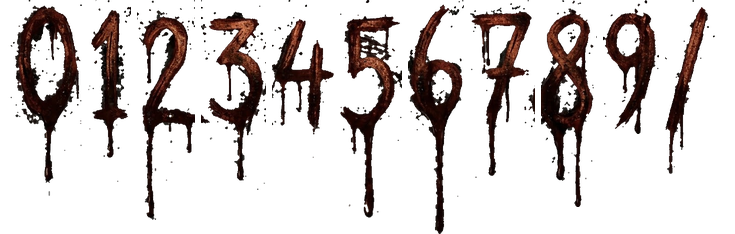
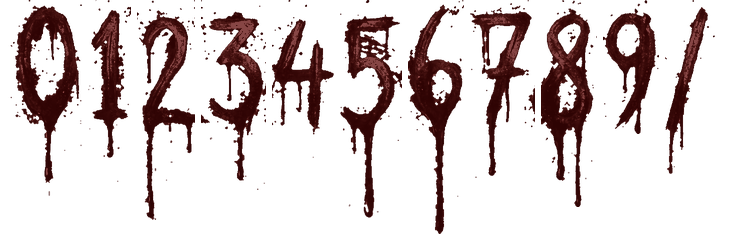
Cifre di sangue: stessa gamma di colore delle altre scritte, con schizzi e colate
Claude-Session: https://claude.ai/code/session_014dApnh5cQuMdZvTWDcVASP

diff --git a/sw.js b/sw.js
@@ -3,7 +3,7 @@
  * - Asset pesanti (modelli, texture, audio): cache separata; scaricati in background dopo l'installazione.
  * Le due versioni qui sotto le aggiorna tools/bump.sh a ogni modifica (hash del contenuto): non toccarle a mano. */
 const SHELL_VERSION = '3672b826d6';   // @shell
-const ASSET_VERSION = '86e9367005';   // @assets
+const ASSET_VERSION = 'be5af477a0';   // @assets
 const SHELL = 'ng-shell-' + SHELL_VERSION, ASSETS = 'ng-assets-' + ASSET_VERSION;
 const SHELL_FILES = ['./','./css/style.css','./icons/icon-180.png','./icons/icon-192.png','./icons/icon-32.png','./icons/icon-512.png','./icons/maskable-512.png','./index.html','./js/audio/audio.js','./js/events/ambient.js','./js/events/cellar.js','./js/events/combat.js','./js/events/dawn.js','./js/events/door.js','./js/events/glass.js','./js/events/hall.js','./js/events/hound.js','./js/events/morgue.js','./js/events/notes.js','./js/events/rats.js','./js/events/scare.js','./js/events/sorella.js','./js/events/tower.js','./js/events/tv.js','./js/events/ward.js','./js/events/warehouse.js','./js/main.js','./js/personal.js','./js/player/controls.js','./js/player/player.js','./js/pwa.js','./js/story.js','./js/ui/instability.js','./js/ui/rgbshift.js','./js/world/aged.js','./js/world/atmos.js','./js/world/blood.js','./js/world/bloodfont.js','./js/world/decor.js','./js/world/dust.js','./js/world/extra.js','./js/world/fingerwrite.js','./js/world/lights.js','./js/world/materials.js','./js/world/nun.js','./js/world/props.js','./js/world/redlight.js','./js/world/rooms.js','./js/world/tunnel.js','./manifest.webmanifest','./vendor/three/LICENSE','./vendor/three/Reflector.js','./vendor/three/loaders/GLTFLoader.js','./vendor/three/three.module.min.js','./vendor/three/utils/BufferGeometryUtils.js']; // @shellfiles
 const ASSET_FILES = ['./assets/audio/crowd_drone.mp3','./assets/audio/demon_growl.mp3','./assets/audio/fire_swoosh.mp3','./assets/audio/hound_breath.mp3','./assets/audio/step0.mp3','./assets/audio/step1.mp3','./assets/audio/step2.mp3','./assets/audio/step3.mp3','./assets/audio/step4.mp3','./assets/models/ammo.glb','./assets/models/axe.glb','./assets/models/bin.glb','./assets/models/c_nurse.glb','./assets/models/c_occ.glb','./assets/models/cabinet.glb','./assets/models/cam.glb','./assets/models/can.glb','./assets/models/cart.glb','./assets/models/chair.glb','./assets/models/door.glb','./assets/models/gate.glb','./assets/models/hlamp.glb','./assets/models/hound.glb','./assets/models/hs_bed.glb','./assets/models/hw_door_1.glb','./assets/models/hw_wheel_chair.glb','./assets/models/kit_cables.glb','./assets/models/kit_fence.glb','./assets/models/kit_gutter.glb','./assets/models/kit_ind.glb','./assets/models/kit_manhole.glb','./assets/models/kit_pipes.glb','./assets/models/lamp.glb','./assets/models/m_bell.glb','./assets/models/m_diver.glb','./assets/models/m_nurse.glb','./assets/models/m_occ.glb','./assets/models/m_pirate.glb','./assets/models/m_root.glb','./assets/models/m_varka.glb','./assets/models/m_whisperer.glb','./assets/models/mg_chair.glb','./assets/models/mg_tool1.glb','./assets/models/mg_tool3.glb','./assets/models/mg_tool4.glb','./assets/models/mg_wall.glb','./assets/models/pistol.glb','./assets/models/rack.glb','./assets/models/rim.glb','./assets/models/seclight.glb','./assets/models/shelf.glb','./assets/models/slamp1.glb','./assets/models/slamp2.glb','./assets/models/sorella.glb','./assets/models/stool.glb','./assets/models/stove.glb','./assets/models/tank.glb','./assets/models/whisperer.glb','./assets/models/wlamp.glb','./assets/models/x_basket.glb','./assets/models/x_bust.glb','./assets/models/x_clock.glb','./assets/models/x_gnome.glb','./assets/models/x_lion.glb','./assets/models/x_micro.glb','./assets/models/x_rat.glb','./assets/models/x_screen.glb','./assets/models/x_spray.glb','./assets/models/x_tv.glb','./assets/models/x_watch.glb','./assets/tex/bath_bg.jpg','./assets/tex/blood_digits.png','./assets/tex/blood_font.png','./assets/tex/blood_real.png','./assets/tex/brick_c.jpg','./assets/tex/brick_n.jpg','./assets/tex/brick_orm.jpg','./assets/tex/floorA_c.jpg','./assets/tex/floorA_n.jpg','./assets/tex/floorA_orm.jpg','./assets/tex/floorB_c.jpg','./assets/tex/floorB_n.jpg','./assets/tex/floorB_orm.jpg','./assets/tex/foot_l.png','./assets/tex/foot_r.png','./assets/tex/hall_bg.jpg','./assets/tex/handA.png','./assets/tex/handC.png','./assets/tex/mg_floor.jpg','./assets/tex/night_bg.jpg','./assets/tex/pic_alice.jpg','./assets/tex/pic_anatomy.webp','./assets/tex/pic_charcoal.webp','./assets/tex/pic_corridor.webp','./assets/tex/pic_drawing.jpg','./assets/tex/pic_drawing2.webp','./assets/tex/pic_elisa.jpg','./assets/tex/pic_family.webp','./assets/tex/pic_mural_angel.webp','./assets/tex/pic_mural_angels.webp','./assets/tex/pic_mural_cathedral.webp','./assets/tex/pic_mural_corridor.webp','./assets/tex/pic_mural_demon.webp','./assets/tex/pic_mural_door.webp','./assets/tex/pic_mural_eyes.webp','./assets/tex/pic_mural_faces.webp','./assets/tex/pic_mural_fire.webp','./assets/tex/pic_mural_inferno.webp','./assets/tex/pic_mural_ritual.webp','./assets/tex/pic_mural_skull.webp','./assets/tex/pic_mural_throne.webp','./assets/tex/pic_mural_wide.webp','./assets/tex/pic_rebecca.jpg','./assets/tex/pic_saint.webp','./assets/tex/pic_window.webp','./assets/tex/pic_yana.jpg','./assets/tex/pt_blocks.webp','./assets/tex/pt_gravel.webp','./assets/tex/pt_layers.webp','./assets/tex/pt_mold.webp','./assets/tex/pt_plaster.webp','./assets/tex/pt_rough.webp','./assets/tex/pt_stain.webp','./assets/tex/rust_c.jpg','./assets/tex/rust_n.jpg','./assets/tex/rust_orm.jpg','./assets/tex/rust_ov.jpg','./assets/tex/stone_c.jpg','./assets/tex/stone_n.jpg','./assets/tex/stone_orm.jpg','./assets/tex/ward_ceiling.jpg','./assets/tex/wr_elisa_1.png','./assets/tex/wr_elisa_2.png','./assets/tex/wr_elisa_3.png','./assets/tex/wr_elisa_4.png','./assets/tex/wr_elisa_h.png','./assets/tex/wr_elisa_m.png','./assets/tex/wr_elisa_o.png','./assets/tex/wr_sigil.png','./assets/tex/wr_std_c2.png','./assets/tex/wr_std_h.png','./assets/tex/wr_std_m.png','./assets/tex/wr_std_o.png','./assets/tex/wr_std_t1.png','./assets/tex/wr_std_t3.png','./assets/tex/wr_std_w4.png','./assets/tex/wr_yana_1.png','./assets/tex/wr_yana_2.png','./assets/tex/wr_yana_3.png','./assets/tex/wr_yana_4.png','./assets/tex/wr_yana_h.png','./assets/tex/wr_yana_m.png','./assets/tex/wr_yana_o.png']; // @assetfiles
